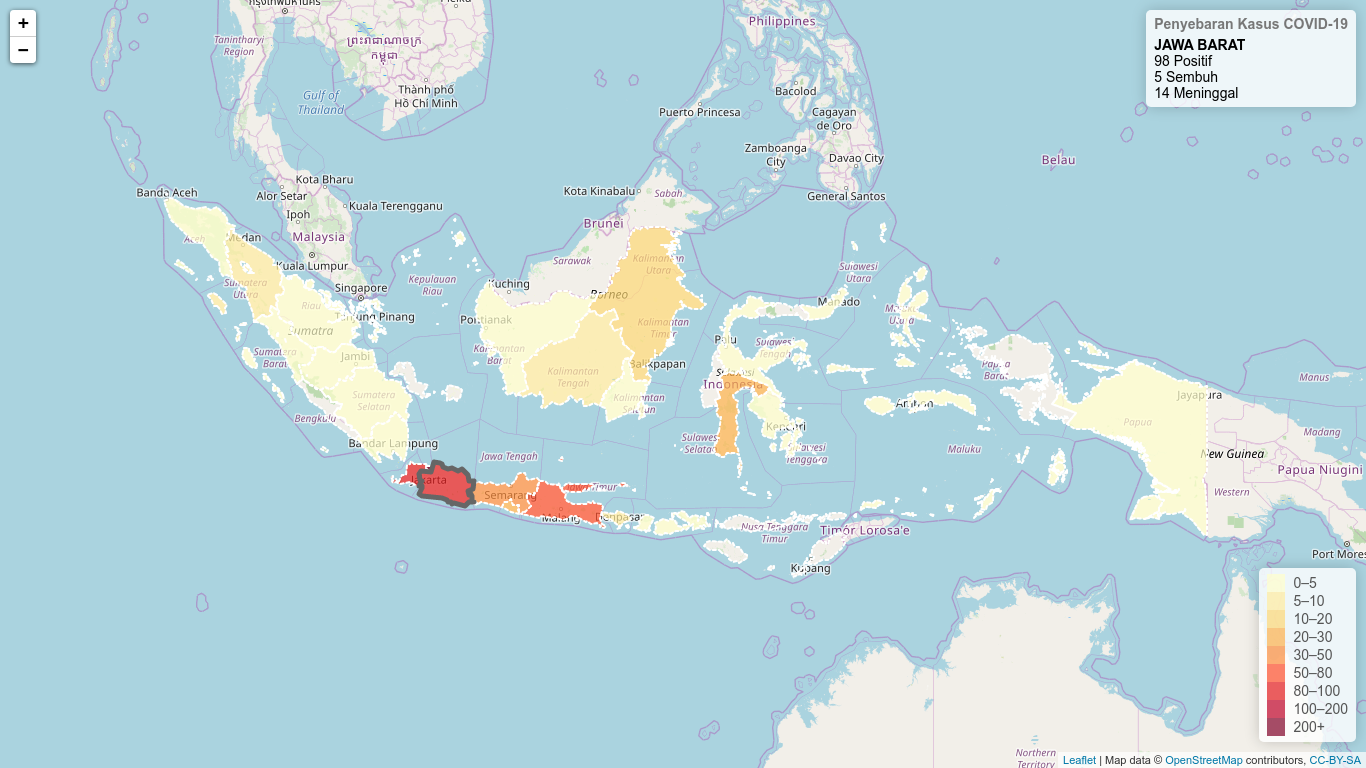
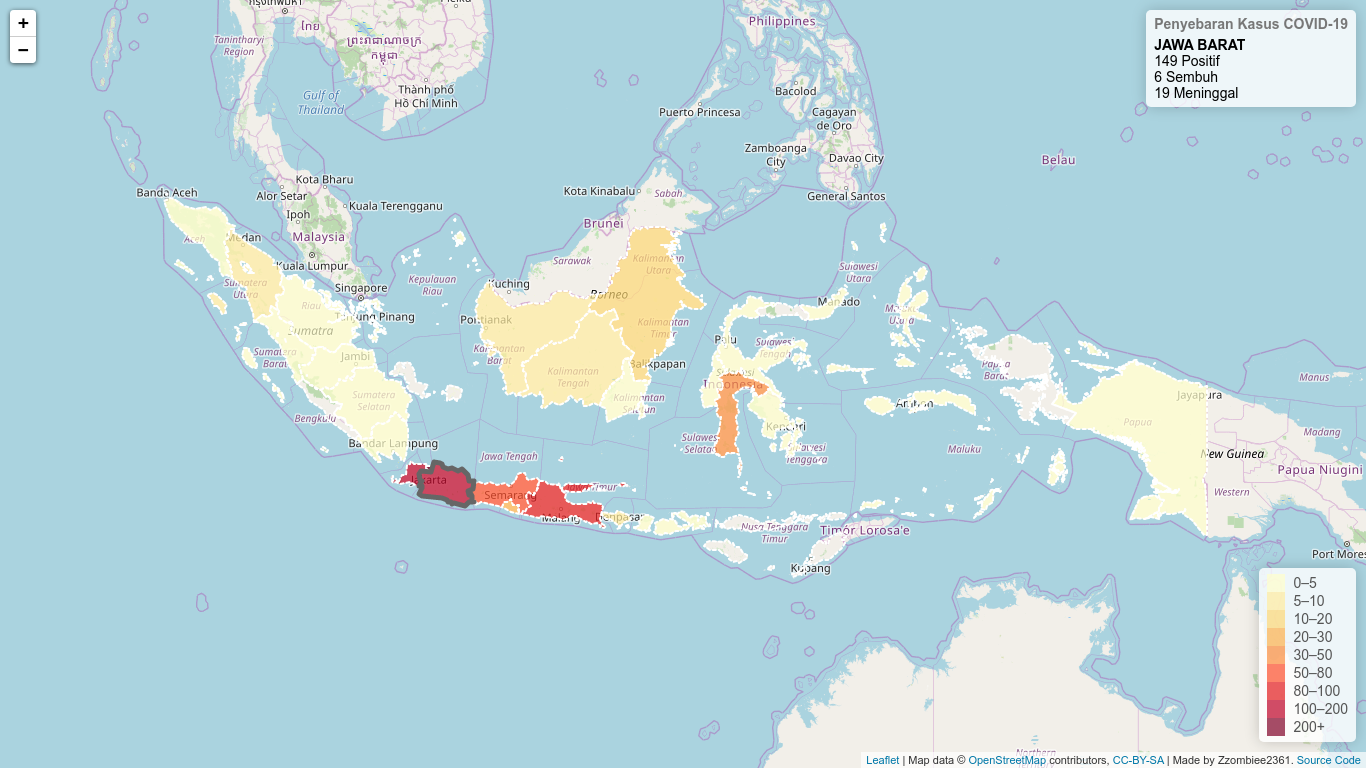
added credit fixed total updated screenshot asset versioning

diff --git a/script.js b/script.js
@@ -7,7 +7,7 @@ else 					zoomLevel = 3;
 var map = L.map('map').setView([-2.5, 118], zoomLevel);
 L.tileLayer(
 'http://{s}.tile.openstreetmap.org/{z}/{x}/{y}.png', {
-	attribution: 'Map data &copy; <a href="https://www.openstreetmap.org/">OpenStreetMap</a> contributors, <a href="https://creativecommons.org/licenses/by-sa/2.0/">CC-BY-SA</a>',
+	attribution: 'Map data &copy; <a href="https://www.openstreetmap.org/">OpenStreetMap</a> contributors, <a href="https://creativecommons.org/licenses/by-sa/2.0/">CC-BY-SA</a> | Made by Zzombiee2361. <a href="https://github.com/Zzombiee2361/peta-covid">Source Code</a>',
 	maxZoom: 18,
 }).addTo(map);
 
@@ -23,21 +23,14 @@ function loadData() {
 	});
 	$.when(
 		$.getJSON('indonesia-prov.geojson'),
-		$.ajax({ url: 'https://api.kawalcorona.com/indonesia/provinsi/', dataType: 'json' })
-	).then(function(json, data) {
+		$.getJSON('https://api.kawalcorona.com/indonesia/provinsi/'),
+		$.getJSON('https://api.kawalcorona.com/indonesia/')
+	).then(function(json, data, total) {
 		// ===== Process API data =====
 		var provinsi = [];
-		var total = {
-			Kasus_Posi: 0,
-			Kasus_Semb: 0,
-			Kasus_Meni: 0,
-		};
 		data[0].forEach((d) => {
 			d = d.attributes;
 			provinsi[d.Kode_Provi] = d;
-			total.Kasus_Posi += d.Kasus_Posi;
-			total.Kasus_Semb += d.Kasus_Semb;
-			total.Kasus_Meni += d.Kasus_Meni;
 		});
 
 		// ===== Map colors =====
@@ -121,9 +114,9 @@ function loadData() {
 				'<br />' + (data.Kasus_Semb || 0) + ' Sembuh'+
 				'<br />' + (data.Kasus_Meni || 0) + ' Meninggal'
 				: '<b>Total</b>'+
-				'<br />' + (total.Kasus_Posi || 0) + ' Positif'+
-				'<br />' + (total.Kasus_Semb || 0) + ' Sembuh'+
-				'<br />' + (total.Kasus_Meni || 0) + ' Meninggal');
+				'<br />' + (total[0][0].positif || 0) + ' Positif'+
+				'<br />' + (total[0][0].sembuh || 0) + ' Sembuh'+
+				'<br />' + (total[0][0].meninggal || 0) + ' Meninggal');
 		};
 
 		info.addTo(map);

diff --git a/index.html b/index.html
@@ -7,7 +7,7 @@
 	<link rel="stylesheet" href="https://unpkg.com/leaflet@1.6.0/dist/leaflet.css"
    integrity="sha512-xwE/Az9zrjBIphAcBb3F6JVqxf46+CDLwfLMHloNu6KEQCAWi6HcDUbeOfBIptF7tcCzusKFjFw2yuvEpDL9wQ=="
 	 crossorigin=""/>
-	<link rel="stylesheet" href="style.css">
+	<link rel="stylesheet" href="style.css?v=1">
 </head>
 <body>
 	<div id="map"></div>
@@ -20,6 +20,6 @@
 		integrity="sha512-gZwIG9x3wUXg2hdXF6+rVkLF/0Vi9U8D2Ntg4Ga5I5BZpVkVxlJWbSQtXPSiUTtC0TjtGOmxa1AJPuV0CPthew=="
 		crossorigin=""></script>
 	<script src="https://cdn.jsdelivr.net/npm/sweetalert2@9"></script>
-	<script src="script.js"></script>
+	<script src="script.js?v=1"></script>
 </body>
 </html>
